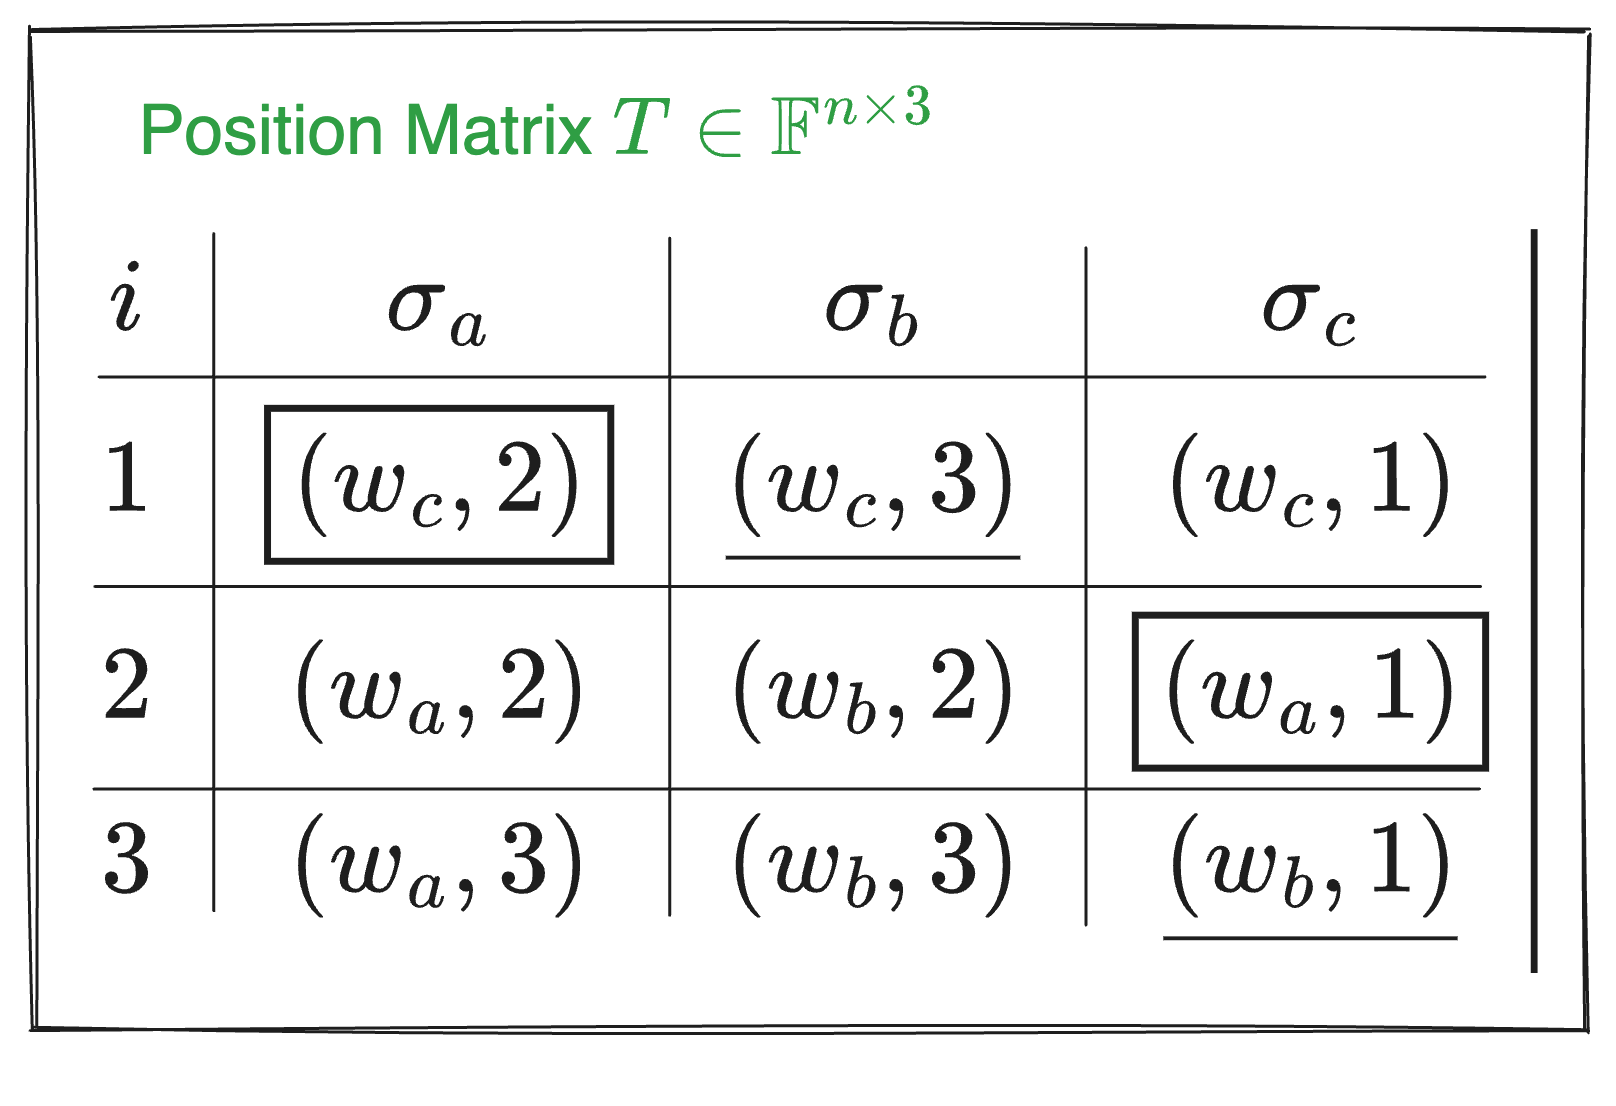
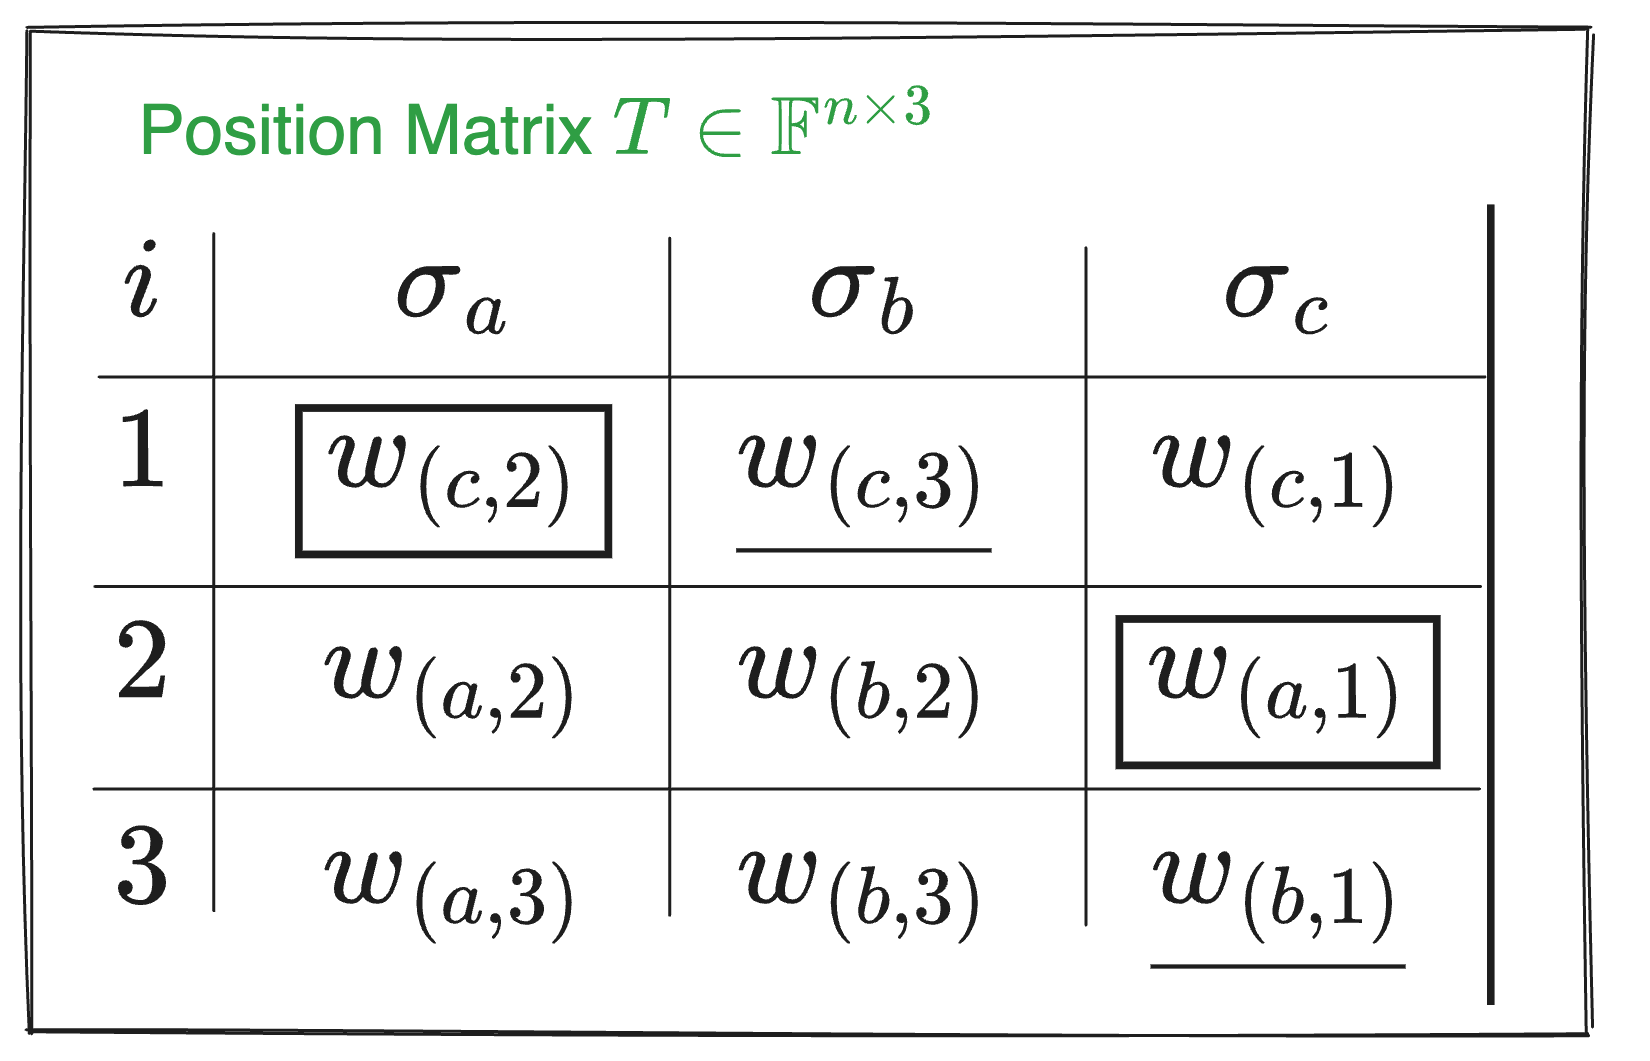
fix:update

Changed region(s): [[0.0, 0.0, 0.9901, 0.9953], [0.0309, 0.0, 0.9282, 0.1555], [0.2475, 0.2488, 0.2785, 0.2799]]

diff --git a/ZKP-PLONK/articles/plonk-zh/polish「1」.md b/ZKP-PLONK/articles/plonk-zh/polish「1」.md
@@ -51,19 +51,27 @@ $$
 
 > 注：其中 $i$ 是表示电路中每个门的索引，从 1 开始逐行递增，它用来标识电路的每个门的位置。
 
-在 Plonkish 中，如果 Prover 要向 Verifier 证明 Ta 知道某个秘密，那么需要用到一个固定的约束等式，验证电路的各个约束条件是否满足。只要这个固定的约束等式可以成立，就可以在不泄露秘密信息的情况下，验证电路的正确性。固定的约束等式等式如下：
+在 Plonkish 中，如果 Prover 要向 Verifier 证明 Ta 知道某个秘密，那么需要用到一个固定的约束等式，验证电路的各个约束条件是否满足。只要这个固定的约束等式可以成立，就可以在不泄露秘密信息的情况下，验证电路的正确性。固定的约束等式如下：
 
 $$
 q_L \circ w_a + q_R \circ w_b + q_M\circ(w_a\cdot w_b) + q_C -  q_O\circ w_c \overset{?}{=} 0
 $$
 
 > 注：一般我们都会将所有的约束都移到等式的一侧。例如，在算术电路中，我们经常需要验证以下形式的方程：
-> `左输入+右输入+乘法项+常数=输出`
+> `左输入+右输入+乘法项+常数=输出`；
 > 为了表示这一点，我们可以将等式全部移到方程左边，并等于零：
-> `左输入+右输入+乘法项+常数−输出=0`
+> `左输入+右输入+乘法项+常数−输出=0`；
 > 这样有助于简化证明系统的构建和验证过程。例如在后续构建约束矩阵 $Q$ 的时候会出现选择器向量的系数选择问题，办法其实很简单，只需要对应固定等式的算术关系即可，不需要进行符号的变换，可参考下图矩阵 $Q\in\mathbb{F}^{n\times5}$。
 
 <img src="/ZKP-PLONK/images/polish「1」.md/矩阵%20Q.png" width="35%" />
+
+我们把上图的 $Q$ 矩阵和固定的约束等式
+
+$$
+q_L \circ w_a + q_R \circ w_b + q_M\circ(w_a\cdot w_b) + q_C -  q_O\circ w_c \overset{?}{=} 0
+$$
+
+结合来看。
 
 在上方固定的约束等式中：
 
@@ -81,9 +89,12 @@ $$
 
 - $\cdot$ 表示常规的乘法
 
-为了验证电路，我们需要根据已有的约束关系来构建约束矩阵 $Q$ 
+为了验证电路，我们需要根据已有的约束关系（也就是矩阵 $W$）来构建约束矩阵 $Q$ 
 
-**具体要怎么构建呢？**
+<img src="/ZKP-PLONK/images/polish「1」.md/Q+W.png" width="75%" />
+
+
+**矩阵 $Q$ 具体是怎么构建来的呢？**
 
 第一步，将约束都移到等式的一侧，所以：
 
@@ -94,16 +105,13 @@ $$
 第三个门 `#3`， $x_5 \cdot x_6 = out$，转换成 $x_5 \cdot x_6 - out=0$。
 
 > 为什么要将所有值移到等式一边？
-  1. 所有的约束等式形式统一为 $f(x) = 0$，这使得处理和验证这些等式更加一致和简单。
-  2. 明确了每个选择器多项式的作用和系数，避免了正负号的混淆。
-  3. 在验证过程中，统一的等式形式简化了对多项式的检查和验证。
+> 1. 所有的约束等式形式统一为 $f(x) = 0$，这使得处理和验证这些等式更加一致和简单。
+> 2. 明确了每个选择器多项式的作用和系数，避免了正负号的混淆。
+> 3. 在验证过程中，统一的等式形式简化了对多项式的检查和验证。
 
 非常简单是不是？很好，那么继续下一步。
 
-第二步，根据已有的固定约束关系等式和三个转换后的等式，去判断选择器多项式的系数，这里我们可能会用到 0、1 和 -1 (系数 0 代表的是关闭状态，系数 1 和 -1 都表示开启状态)：
-
-> 📝
-> <font color=Blue>这里表示 $q_L, q_R, q_M, q_C, q_O$ 的值取到 1 表示开启状态，是否不需要用到 -1？</font>
+第二步，根据已有的固定约束关系等式和三个转换后的等式，去判断选择器向量的系数，这里我们会用到 0 或 1 (系数 0 代表的是该选择器是关闭状态，系数 1 表示该选择器是开启状态)：
 
 第一个门 `#1`:
 
@@ -122,15 +130,15 @@ $$
 
 > $\circ$ 特指 Hadamard product，任何矩阵与零矩阵做哈达玛积结果仍然是零
 
-再把约束关系相对应的选择器的值（0 or 1, or -1）代入上式：
+再把约束关系相对应的选择器的值（0 or 1）代入上式：
 
 $$
-\begin{align}
-0 \circ w_a + 0 \circ w_b + 1 \circ(w_a\cdot w_b) + 0 -  1\circ w_c & = 0\\
-1 \circ(w_a\cdot w_b) + 0 -  1\circ w_c & = 0\\
-1\circ(w_a\cdot w_b) & = 1\circ w_c\\
-x_5 \cdot x_6 & = out
-\end{align}
+\begin{split}
+0 \circ w_a + 0 \circ w_b + 1 \circ(w_a\cdot w_b) + 0 -  1\circ w_c &= 0\\
+1 \circ(w_a\cdot w_b) + 0 -  1\circ w_c &= 0\\
+1\circ(w_a\cdot w_b) &= 1\circ w_c\\
+x_5 \cdot x_6 &= out
+\end{split}
 $$
 
 看！最后得到的结果 $x_5 \cdot x_6 = out$ ，用选择器的值代入到固定等式中和一开始例子中电路的约束关系是一致的。
@@ -141,10 +149,8 @@ $$
 
 第三个门 `#3`，它的约束关系是 $x_5 \cdot x_6 = out$，那么它的 $q_L=0$， $q_R=0$， $q_M=1$， $q_C=0$， $q_O=1$；
 
-> 如果你仔细观察上面会发现，如果是乘法门的话，拿 $x_5 \cdot x_6 = out$ 为例，它左右边的加法选择器都是关闭（选择器系数为 0）的状态；如果是加法门的话，以 $x_1+x_2-x_5=0$ 为例，它的右边的加法选择器要么是 1 要么是 -1，一定是打开的状态，而不会出现关闭的状态。
+> 如果你仔细观察上面会发现，如果是乘法门的话，拿 $x_5 \cdot x_6 = out$ 为例，它左右边的加法选择器都是关闭（选择器系数为 0）的状态，而表示乘法门的 $q_M$ 打开（选择器系数为 1）；如果是加法门的话，以 $x_1+x_2-x_5=0$ 为例，它的右边的加法选择器是打开的状态（系数为 1），而它的左右边的加法选择器 $q_L$ 和 $q_R$ 是关闭状态（系数为 0）。
 
-> 📝
-> "它的右边的加法选择器要么是 1 要么是 -1，" 如何理解？$q_R = 1$.
 
 现在把上面的这些数据整理起来，像 $W$ 一样，我们还是用表格的形式来表示约束矩阵 $Q\in\mathbb{F}^{n\times5}$（ $n$ 算术门的数量，对应为行；5 表示选择器多项式的数量，即 $q_L$ ··· $q_O$ 对应为列）。
 
@@ -288,8 +294,6 @@ $$
 
 比较下面两个电路，它们能构成的 $Q$ 矩阵完全相同，但它们的电路结构却完全不同。
 
-> 👩💻 TODO: 更改图片
-
 
 <img src="/ZKP-PLONK/images/polish「1」.md/电路比较.png" width="70%" />
 
@@ -311,7 +315,7 @@ $$
 
 为了防止「恶意的」 Prover 作恶，我们需要增加新的约束，强制要求右边电路图中 $x_5=x_7$ 和 $x_6=x_8$，见下图。这等价于我们要求 Prover 把同一个变量填入表格多个位置时，必须填入相等的值。
 
-<img src="/ZKP-PLONK/images/polish「1」.md/新的约束关系.png" width="40%" />
+<img src="/ZKP-PLONK/images/polish「1」.md/新的约束关系.png" width="30%" />
 
 这就需要一类新的约束——「拷贝约束」，即 Copy Constraint。Plonk 采用「置换证明」保证矩阵 $W$ 中多个位置上的值满足拷贝关系。我们继续用上面这个电路图的案例来说明其基本思路：
 
@@ -454,7 +458,7 @@ $$
 如果 Prover 是诚实的，那么对于 $i\in \{1,2,3,4\}$，下面的算术约束等式成立：
 
 $$
-q_{L,i} \circ w_{(a,i)} + q_{R,i} \circ w_{(b,i)} + q_{M,i}\circ(w_{(a,i)}\cdot w_{(b,i)}) + q_{C,i} - q_{O,i}\circ w_{(c,i)} = 0
+q_{L,i} \circ w_{a,i} + q_{R,i} \circ w_{b,i} + q_{M,i}\circ(w_{a,i}\cdot w_{b,i}) + q_{C,i} - q_{O,i}\circ w_{c,i} = 0
 $$
 
 
@@ -483,8 +487,7 @@ $$
     第一个等式：使用下标 $i$ 表示具体的索引，这意味着它是在特定点 $i$ 处的约束。
     第二个等式：使用 $(X)$ 表示多项式，这意味着它是在整个域上的约束。
 > 2. 变量和系数：
-> $q_{L,i}, q_{R,i}, q_{M,i}, q_{C,i}, q_{O,i}$ 与 $q_L(X), q_R(X), q_M(X), q_C(X), q_O(X)$
-> 代表相同的约束系数，只是在不同的表示方法下一个是具体数值，一个是多项式形式  
+> $q_{L,i}, q_{R,i}, q_{M,i}, q_{C,i}, q_{O,i}$ 与 $q_L(X), q_R(X), q_M(X), q_C(X), q_O(X)$ 代表相同的约束系数，只是在不同的表示方法下一个是具体数值，一个是多项式形式； 
 > $w_{a,i}, w_{b,i}, w_{c,i}$ 与 $w_a(X), w_b(X), w_c(X)$ 分别代表输入值，只是在不同的表示方法下一个是具体数值，一个是多项式形式。  
 > 3. 操作符：
     在第一个等式中，使用了「 $\circ$ 」来表示乘法运算。

diff --git a/ZKP-PLONK/articles/plonk-en/Plonkish Arithmetization.md b/ZKP-PLONK/articles/plonk-en/Plonkish Arithmetization.md
@@ -298,7 +298,7 @@ $$
 
 To prevent a **malicious** Prover from cheating, we need to introduce additional constraints, forcing an equivalence between variables, like $x_5 = x_7$ and $x_6 = x_8$ in the right-hand circuit, as shown below. This is equivalent to requiring the Prover to input identical values for the same variable in multiple places in the table.
 
-<img src="/ZKP-PLONK/images/Plonkish Arithmetization/new constraints.png" width="50%" />
+<img src="/ZKP-PLONK/images/Plonkish Arithmetization/new constraints.png" width="30%" />
 
 This introduces a new type of constraint—**Copy Constraints**. In Plonk, **permutation proofs** are used to ensure that multiple positions in matrix $W$ satisfy these copy constraints. Let’s use the same circuit example to explain the basic idea.
 
@@ -425,23 +425,23 @@ $$
 q_L \circ w_a + q_R \circ w_b + q_M \circ (w_a \cdot w_b) + q_C - q_O \circ w_c = 0
 $$
 
-To ensure that $w_c$ in the first row of the $W$ matrix also equals $99$ (ensuring that the output $out$ is correctly reflected in all relevant positions), we need to add an additional copy constraint into the $\sigma$ vector, ensuring that the value of $out$ at position $(w_{(c,1)}$ is swapped with the value of $out$ at $(w_{(c,4)}$:
+To ensure that $w_c$ in the first row of the $W$ matrix also equals $99$ (ensuring that the output $out$ is correctly reflected in all relevant positions), we need to add an additional copy constraint into the $\sigma$ vector, ensuring that the value of $out$ at position $w_{(c,1)}$ is swapped with the value of $out$ at $w_{(c,4)}$:
 
 $$
 \begin{array}{c|c|c|c|}
 i & \sigma_a & \sigma_b & \sigma_c  \\
 \hline
-1 & \boxed{(w_c,2)} & \underline{(w_c,3)} & [{(w_c,4)}] \\
-2 & {(w_a,2)} & {(w_b,2)} & \boxed{w_a,1)} \\
-3 & {(w_a,3)} & {(w_b,3)} & \underline{(w_b,1)} \\
-4 & {(w_a,4)} & {(w_b,4)} & [{(w_c,1)}]\\
+1 & \boxed{w_{(c,2)}} & \underline{w_{(c,3)}} & [{w_{(c,4)}}] \\
+2 & {w_{(a,2)}} & {w_{(b,2)}} & \boxed{w_{(a,1)}} \\
+3 & {w_{(a,3)}} & {w_{(b,3)}} & \underline{w_{(b,1)}} \\
+4 & {w_{(a,4)}} & {w_{(b,4)}} & [{w_{(c,1)}}]\\
 \end{array}
 $$
 
 If the Prover is honest, the following arithmetic constraint equation holds for each $i \in (1, 2, 3, 4)$:
 
 $$
-q_{(L,i)} \circ w_{(a,i)} + q_{(R,i)} \circ w_{(b,i)} + q_{(M,i)}\circ(w_{(a,i)}\cdot w_{(b,i)}) + q_{(C,i)} - q_{(O,i)}\circ w_{(c,i)} = 0
+q_{L,i} \circ w_{(a,i)} + q_{R,i} \circ w_{(b,i)} + q_{M,i}\circ(w_{(a,i)}\cdot w_{(b,i)}) + q_{C,i} - q_{O,i}\circ w_{(c,i)} = 0
 $$
 
 **The general idea of the verification protocol is as follows**:
